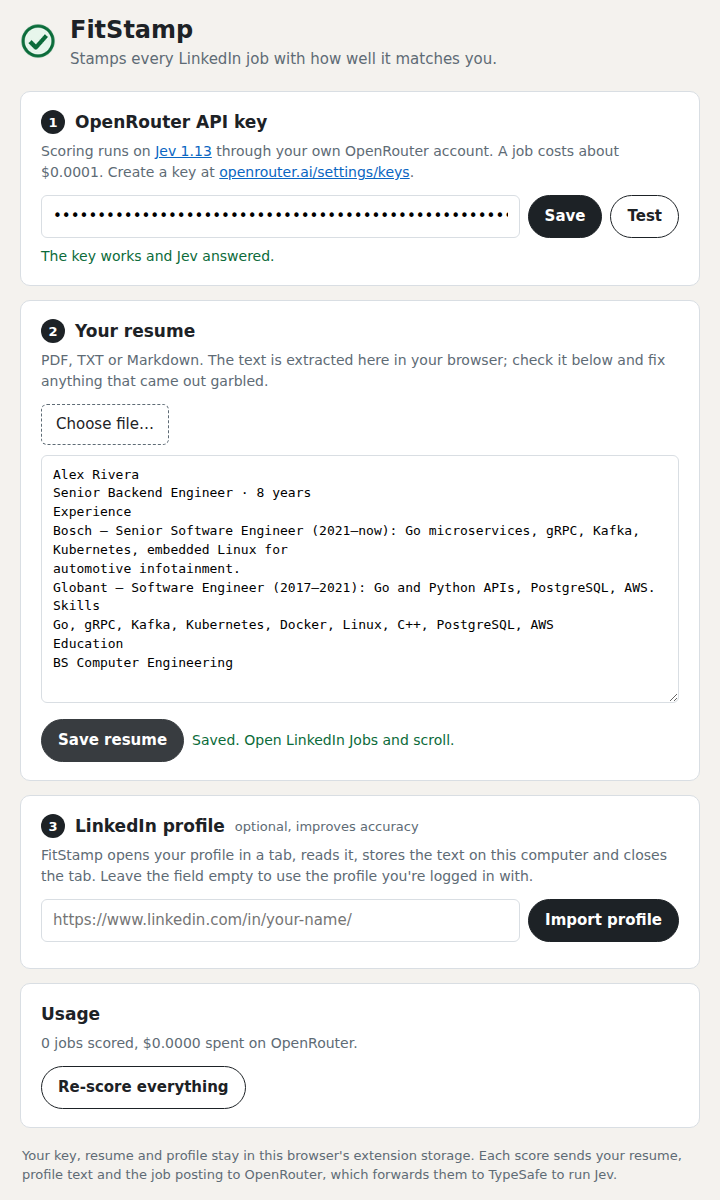
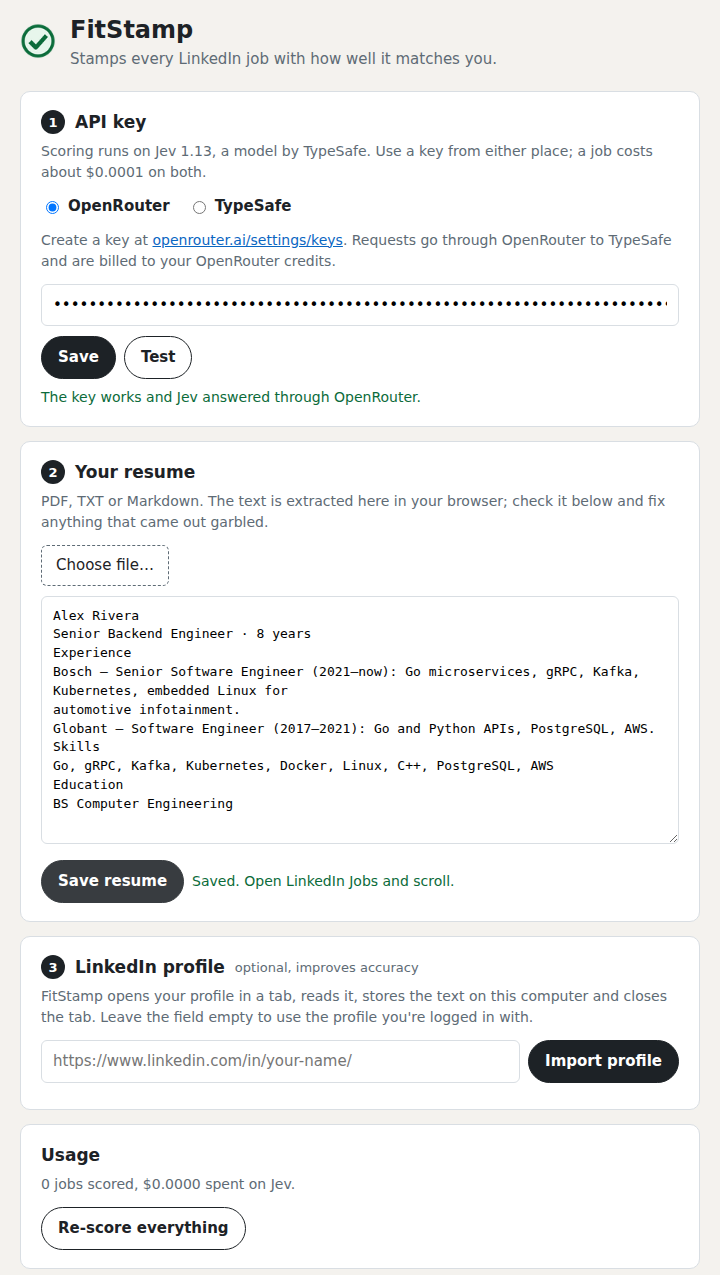
Let the user score with a TypeSafe API key as well as an OpenRouter one
Settings get a provider choice with one key per provider. TypeSafe requests go
straight to api.typesafe.ai/v1/systemone with model jev-1.13.0; its errors come
as { detail } and it reports no cost, so cost is computed from input tokens.
Both providers retry 429/529 with backoff.

diff --git a/src/lib/jev.js b/src/lib/jev.js
@@ -1,9 +1,26 @@
 // Jev is a decision model: it never writes text, it answers typed questions
 // (score / noul / choice) about a `state` with calibrated probabilities.
 // Docs: https://docs.typesafe.ai/api and https://openrouter.ai/docs/guides/community/typesafe-sdk
+//
+// Both providers take the same request and return the same answers; only the
+// URL, the model name and the error body differ.
+export const PROVIDERS = {
+  openrouter: {
+    label: "OpenRouter",
+    endpoint: "https://openrouter.ai/api/v1/systemone",
+    model: "jev-1.13",
+    headers: { "HTTP-Referer": "https://github.com/edumntg/fitstamp", "X-Title": "FitStamp" },
+  },
+  typesafe: {
+    label: "TypeSafe",
+    endpoint: "https://api.typesafe.ai/v1/systemone",
+    model: "jev-1.13.0",
+    headers: {},
+  },
+};
 
-export const ENDPOINT = "https://openrouter.ai/api/v1/systemone";
-export const MODEL = "jev-1.13";
+// TypeSafe doesn't report cost; Jev 1.13 bills $0.042 per million input tokens.
+const USD_PER_INPUT_TOKEN = 0.042 / 1e6;
 
 // Jev's context is 32k tokens. These caps keep resume + profile + job well under it.
 const MAX_RESUME = 14000;
@@ -46,26 +63,35 @@ export function buildState(candidate, job) {
   return { candidate: c, job: j };
 }
 
-async function call(apiKey, state, questions) {
-  const res = await fetch(ENDPOINT, {
+const sleep = (ms) => new Promise((r) => setTimeout(r, ms));
+
+// `auth` is { provider: "openrouter" | "typesafe", apiKey }.
+async function call(auth, state, questions, attempt = 0) {
+  const p = PROVIDERS[auth.provider] || PROVIDERS.openrouter;
+  const res = await fetch(p.endpoint, {
     method: "POST",
-    headers: {
-      Authorization: `Bearer ${apiKey}`,
-      "Content-Type": "application/json",
-      "HTTP-Referer": "https://github.com/edumntg/fitstamp",
-      "X-Title": "FitStamp",
-    },
-    body: JSON.stringify({ model: MODEL, state, questions }),
+    headers: { Authorization: `Bearer ${auth.apiKey}`, "Content-Type": "application/json", ...p.headers },
+    body: JSON.stringify({ model: p.model, state, questions }),
   });
+  // 429 = rate limited, 529 = TypeSafe overloaded: both ask for a retry with backoff.
+  if ((res.status === 429 || res.status === 529) && attempt < 3) {
+    const retryAfter = Number(res.headers.get("retry-after")) * 1000;
+    await sleep(retryAfter || 1000 * 2 ** attempt);
+    return call(auth, state, questions, attempt + 1);
+  }
   const body = await res.json().catch(() => ({}));
   if (!res.ok) {
-    const msg = body?.error?.message || `HTTP ${res.status}`;
+    // OpenRouter: { error: { message } }. TypeSafe: { detail: { message } } or { detail: "..." }.
+    const detail = body?.detail;
+    const msg = body?.error?.message || detail?.message || (typeof detail === "string" ? detail : "") || `HTTP ${res.status}`;
     const err = new Error(msg);
     err.status = res.status;
     throw err;
   }
   return body;
 }
+
+const costOf = (usage) => usage?.cost ?? (usage?.input_tokens != null ? usage.input_tokens * USD_PER_INPUT_TOKEN : null);
 
 // Weights live in code on purpose (the "composite scoring" pattern): the model
 // answers narrow questions, we decide how much each one matters.
@@ -86,14 +112,14 @@ export function combine(answers) {
   };
 }
 
-export async function scoreJob(apiKey, candidate, job) {
-  const body = await call(apiKey, buildState(candidate, job), QUESTIONS);
-  return { ...combine(body.answers), cost: body.usage?.cost ?? null };
+export async function scoreJob(auth, candidate, job) {
+  const body = await call(auth, buildState(candidate, job), QUESTIONS);
+  return { ...combine(body.answers), cost: costOf(body.usage) };
 }
 
-export async function testKey(apiKey) {
-  const body = await call(apiKey, "Hello", {
+export async function testKey(auth) {
+  const body = await call(auth, "Hello", {
     ok: { type: "noul", instructions: "Is this a greeting?" },
   });
-  return body.usage?.cost ?? 0;
+  return costOf(body.usage) ?? 0;
 }

diff --git a/src/options/options.js b/src/options/options.js
@@ -1,5 +1,5 @@
 import * as pdfjs from "../../vendor/pdfjs/pdf.min.mjs";
-import { testKey } from "../lib/jev.js";
+import { testKey, PROVIDERS } from "../lib/jev.js";
 
 pdfjs.GlobalWorkerOptions.workerSrc = chrome.runtime.getURL("vendor/pdfjs/pdf.worker.min.mjs");
 
@@ -15,22 +15,40 @@ const fmtDate = (t) => new Date(t).toLocaleString();
 
 // ---------- API key ----------
 
+// The OpenRouter key is stored as `apiKey` (its name predates TypeSafe support).
+const KEY_FIELD = { openrouter: { input: "openrouterKey", store: "apiKey" }, typesafe: { input: "typesafeKey", store: "typesafeKey" } };
+
+const selectedProvider = () => document.querySelector('input[name="provider"]:checked').value;
+
+function showProvider(provider) {
+  document.querySelectorAll("[data-provider]").forEach((el) => (el.hidden = el.dataset.provider !== provider));
+}
+
+document.querySelectorAll('input[name="provider"]').forEach((r) => {
+  r.onchange = () => {
+    showProvider(r.value);
+    status($("keyStatus"), "");
+  };
+});
+
 $("saveKey").onclick = async () => {
-  const apiKey = $("apiKey").value.trim();
-  if (!apiKey) return status($("keyStatus"), "Paste a key first.", "error");
-  await store.set({ apiKey });
-  status($("keyStatus"), "Saved.", "ok");
+  const provider = selectedProvider();
+  const key = $(KEY_FIELD[provider].input).value.trim();
+  if (!key) return status($("keyStatus"), "Paste a key first.", "error");
+  await store.set({ provider, [KEY_FIELD[provider].store]: key });
+  status($("keyStatus"), `Saved. Jobs are now scored through ${PROVIDERS[provider].label}.`, "ok");
 };
 
 $("testKey").onclick = async () => {
-  const apiKey = $("apiKey").value.trim();
+  const provider = selectedProvider();
+  const apiKey = $(KEY_FIELD[provider].input).value.trim();
   if (!apiKey) return status($("keyStatus"), "Paste a key first.", "error");
   status($("keyStatus"), "Testing…");
   try {
-    await testKey(apiKey);
-    status($("keyStatus"), "The key works and Jev answered.", "ok");
+    await testKey({ provider, apiKey });
+    status($("keyStatus"), `The key works and Jev answered through ${PROVIDERS[provider].label}.`, "ok");
   } catch (e) {
-    status($("keyStatus"), `Jev call failed: ${e.message}`, "error");
+    status($("keyStatus"), `Jev call through ${PROVIDERS[provider].label} failed: ${e.message}`, "error");
   }
 };
 
@@ -112,9 +130,18 @@ $("clearCache").onclick = async () => {
 
 // ---------- load + live refresh ----------
 
+let refreshed = false;
+
 async function refresh() {
-  const s = await store.get(["apiKey", "resume", "profile", "profileUrl", "stats"]);
-  if (s.apiKey && !$("apiKey").value) $("apiKey").value = s.apiKey;
+  const s = await store.get(["provider", "apiKey", "typesafeKey", "resume", "profile", "profileUrl", "stats"]);
+  if (!refreshed) {
+    const provider = s.provider === "typesafe" ? "typesafe" : "openrouter";
+    document.querySelector(`input[name="provider"][value="${provider}"]`).checked = true;
+    showProvider(provider);
+    refreshed = true;
+  }
+  if (s.apiKey && !$("openrouterKey").value) $("openrouterKey").value = s.apiKey;
+  if (s.typesafeKey && !$("typesafeKey").value) $("typesafeKey").value = s.typesafeKey;
   if (s.resume && !$("resumeText").value) {
     $("resumeText").value = s.resume.text;
     resumeName = s.resume.name;
@@ -130,7 +157,7 @@ async function refresh() {
     $("profileDetails").hidden = true;
   }
   const st = s.stats || { scored: 0, cost: 0 };
-  $("stats").textContent = `${st.scored.toLocaleString()} jobs scored, $${st.cost.toFixed(4)} spent on OpenRouter.`;
+  $("stats").textContent = `${st.scored.toLocaleString()} jobs scored, $${st.cost.toFixed(4)} spent on Jev.`;
 }
 
 chrome.storage.onChanged.addListener((_, area) => area === "local" && refresh());

diff --git a/src/options/options.html b/src/options/options.html
@@ -16,10 +16,22 @@
     </header>
 
     <section>
-      <h2><span class="step">1</span> OpenRouter API key</h2>
-      <p class="hint">Scoring runs on <a href="https://openrouter.ai/typesafe/jev-1.13" target="_blank" rel="noopener">Jev 1.13</a> through your own OpenRouter account. A job costs about $0.0001. Create a key at <a href="https://openrouter.ai/settings/keys" target="_blank" rel="noopener">openrouter.ai/settings/keys</a>.</p>
-      <div class="row">
-        <input id="apiKey" type="password" placeholder="sk-or-v1-…" autocomplete="off" spellcheck="false">
+      <h2><span class="step">1</span> API key</h2>
+      <p class="hint">Scoring runs on Jev 1.13, a model by TypeSafe. Use a key from either place; a job costs about $0.0001 on both.</p>
+      <fieldset class="providers">
+        <legend class="sr-only">Where your key is from</legend>
+        <label><input type="radio" name="provider" value="openrouter" checked> OpenRouter</label>
+        <label><input type="radio" name="provider" value="typesafe"> TypeSafe</label>
+      </fieldset>
+      <div data-provider="openrouter">
+        <p class="hint">Create a key at <a href="https://openrouter.ai/settings/keys" target="_blank" rel="noopener">openrouter.ai/settings/keys</a>. Requests go through OpenRouter to TypeSafe and are billed to your OpenRouter credits.</p>
+        <input id="openrouterKey" type="password" placeholder="sk-or-v1-…" autocomplete="off" spellcheck="false" aria-label="OpenRouter API key">
+      </div>
+      <div data-provider="typesafe" hidden>
+        <p class="hint">Create a key at <a href="https://console.typesafe.ai/keys" target="_blank" rel="noopener">console.typesafe.ai/keys</a>. Requests go straight to TypeSafe's API and are billed to your TypeSafe account.</p>
+        <input id="typesafeKey" type="password" placeholder="Your TypeSafe API key" autocomplete="off" spellcheck="false" aria-label="TypeSafe API key">
+      </div>
+      <div class="row key-actions">
         <button id="saveKey">Save</button>
         <button id="testKey" class="ghost">Test</button>
       </div>
@@ -62,7 +74,7 @@
     </section>
 
     <footer>
-      Your key, resume and profile stay in this browser's extension storage. Each score sends your resume, profile text and the job posting to OpenRouter, which forwards them to TypeSafe to run Jev.
+      Your key, resume and profile stay in this browser's extension storage. Each score sends your resume, profile text and the job posting to the provider you chose: OpenRouter, which forwards them to TypeSafe, or TypeSafe directly.
     </footer>
   </main>
   <script type="module" src="options.js"></script>

diff --git a/src/background.js b/src/background.js
@@ -13,14 +13,17 @@ function fnv1a(str) {
   return (h >>> 0).toString(36);
 }
 
+// `apiKey` is the OpenRouter key (its name predates TypeSafe support).
 async function settings() {
-  return chrome.storage.local.get(["apiKey", "resume", "profile", "enabled"]);
+  const s = await chrome.storage.local.get(["provider", "apiKey", "typesafeKey", "resume", "profile", "enabled"]);
+  const provider = s.provider === "typesafe" ? "typesafe" : "openrouter";
+  return { ...s, auth: { provider, apiKey: provider === "typesafe" ? s.typesafeKey : s.apiKey } };
 }
 
 async function handleScore(job) {
   const s = await settings();
   if (s.enabled === false) return { ok: false, reason: "disabled" };
-  if (!s.apiKey) return { ok: false, reason: "no-key" };
+  if (!s.auth.apiKey) return { ok: false, reason: "no-key" };
   if (!s.resume?.text) return { ok: false, reason: "no-resume" };
 
   const candidate = { resume: s.resume.text, profile: s.profile?.text || "" };
@@ -36,7 +39,7 @@ async function handleScore(job) {
   if (!inflight.has(flightKey)) {
     inflight.set(
       flightKey,
-      scoreJob(s.apiKey, candidate, job).finally(() => inflight.delete(flightKey))
+      scoreJob(s.auth, candidate, job).finally(() => inflight.delete(flightKey))
     );
   }
   try {

diff --git a/src/content/jobs.js b/src/content/jobs.js
@@ -257,10 +257,10 @@
   let bannerEl = null;
   function showBanner(reason) {
     const msg = {
-      "no-key": "add your OpenRouter API key",
+      "no-key": "add your OpenRouter or TypeSafe API key",
       "no-resume": "upload your resume",
-      "bad-key": "your OpenRouter API key was rejected, check it",
-      "no-credits": "your OpenRouter account is out of credits",
+      "bad-key": "your API key was rejected, check it",
+      "no-credits": "your account is out of credits",
       disabled: null,
     }[reason];
     bannerEl?.remove();
@@ -308,7 +308,7 @@
   // New resume / profile / key / toggle / cleared cache: drop every stamp and start over.
   chrome.storage.onChanged.addListener((changes, area) => {
     if (area !== "local") return;
-    if (!["apiKey", "resume", "profile", "enabled", "cacheEpoch"].some((k) => k in changes)) return;
+    if (!["provider", "apiKey", "typesafeKey", "resume", "profile", "enabled", "cacheEpoch"].some((k) => k in changes)) return;
     blocked = null;
     bannerEl?.remove();
     queue.length = 0;

diff --git a/src/popup/popup.js b/src/popup/popup.js
@@ -1,7 +1,9 @@
 const $ = (id) => document.getElementById(id);
 
-chrome.storage.local.get(["apiKey", "resume", "profile", "enabled", "stats"]).then((s) => {
-  $("hasKey").classList.toggle("done", !!s.apiKey);
+chrome.storage.local.get(["provider", "apiKey", "typesafeKey", "resume", "profile", "enabled", "stats"]).then((s) => {
+  const typesafe = s.provider === "typesafe";
+  $("hasKey").textContent = `${typesafe ? "TypeSafe" : "OpenRouter"} API key`;
+  $("hasKey").classList.toggle("done", !!(typesafe ? s.typesafeKey : s.apiKey));
   $("hasResume").classList.toggle("done", !!s.resume?.text);
   $("hasProfile").classList.toggle("done", !!s.profile?.text);
   $("enabled").checked = s.enabled !== false;

diff --git a/src/options/options.css b/src/options/options.css
@@ -71,6 +71,27 @@ a { color: var(--accent); }
   flex-wrap: wrap;
 }
 
+.providers {
+  display: flex;
+  gap: 18px;
+  margin: 0 0 12px;
+  padding: 0;
+  border: 0;
+}
+
+.providers label { display: flex; align-items: center; gap: 6px; font-weight: 600; cursor: pointer; }
+
+.sr-only {
+  position: absolute;
+  width: 1px;
+  height: 1px;
+  overflow: hidden;
+  clip: rect(0 0 0 0);
+}
+
+[data-provider] input { width: 100%; }
+.key-actions { margin-top: 10px; }
+
 input[type="password"], input[type="url"] {
   flex: 1 1 260px;
   min-width: 0;

diff --git a/src/popup/popup.html b/src/popup/popup.html
@@ -20,7 +20,7 @@
 <body>
   <h1>FitStamp <label><input id="enabled" type="checkbox"> On</label></h1>
   <ul>
-    <li id="hasKey">OpenRouter API key</li>
+    <li id="hasKey">API key</li>
     <li id="hasResume">Resume</li>
     <li id="hasProfile" class="optional">LinkedIn profile (optional)</li>
   </ul>

diff --git a/README.md b/README.md
@@ -4,11 +4,11 @@ A Chrome extension that stamps every job on LinkedIn with how well it matches yo
 
 ![Job cards stamped with match scores](docs/stamps.png)
 
-Scoring runs on [Jev 1.13](https://openrouter.ai/typesafe/jev-1.13) through your own OpenRouter API key. Jev is a decision model: it doesn't write text, it answers typed questions with calibrated probabilities, so a score comes back in under a second and costs about **$0.0001 per job** (roughly 10,000 jobs per dollar).
+Scoring runs on [Jev 1.13](https://docs.typesafe.ai/concepts/system-one) by TypeSafe, with your own API key from either [OpenRouter](https://openrouter.ai/typesafe/jev-1.13) or [TypeSafe](https://console.typesafe.ai) directly. Jev is a decision model: it doesn't write text, it answers typed questions with calibrated probabilities, so a score comes back in under a second and costs about **$0.0001 per job** (roughly 10,000 jobs per dollar).
 
 ## How it works
 
-1. You give the extension your resume (PDF, TXT or Markdown) and your OpenRouter key. Importing your LinkedIn profile is optional and adds whatever the resume leaves out.
+1. You give the extension your resume (PDF, TXT or Markdown) and an OpenRouter or TypeSafe API key. Importing your LinkedIn profile is optional and adds whatever the resume leaves out.
 2. On `linkedin.com/jobs/*`, each job card that scrolls into view is picked up, and so is the job you have open in the right-hand pane (its stamp sits under the title). The extension downloads the full posting from LinkedIn's public job page (the same one a logged-out visitor sees), so it scores the whole description and not just the title.
 3. Your resume, profile and the posting go to Jev in one request with three questions:
    - **fit**: a 0–3 score, from "no meaningful overlap" to "meets nearly all requirements and the seniority fits"
@@ -30,11 +30,19 @@ Scores are cached for 7 days per job. Changing your resume or profile re-scores 
 
 The extension isn't on the Chrome Web Store, so you load it from this folder. It takes about two minutes.
 
-### 1. Get an OpenRouter API key
+### 1. Get an API key (OpenRouter or TypeSafe)
 
-1. Sign in at [openrouter.ai](https://openrouter.ai).
-2. Add a few dollars of credit at [openrouter.ai/settings/credits](https://openrouter.ai/settings/credits). $1 covers thousands of jobs.
-3. Go to [openrouter.ai/settings/keys](https://openrouter.ai/settings/keys), click **Create key** and copy it (it starts with `sk-or-v1-`). You can set a credit limit on the key if you want a hard cap.
+You need one key, from either of these. Both run the same model at the same price; pick whichever account you already have.
+
+| | OpenRouter | TypeSafe |
+| --- | --- | --- |
+| Where requests go | OpenRouter, which forwards them to TypeSafe | Straight to TypeSafe's API |
+| Billing | Your OpenRouter credits | Your TypeSafe account |
+| Get a key | [openrouter.ai/settings/keys](https://openrouter.ai/settings/keys) | [console.typesafe.ai/keys](https://console.typesafe.ai/keys) |
+
+**OpenRouter:** sign in at [openrouter.ai](https://openrouter.ai), add a few dollars at [openrouter.ai/settings/credits](https://openrouter.ai/settings/credits) ($1 covers thousands of jobs), then click **Create key** at [openrouter.ai/settings/keys](https://openrouter.ai/settings/keys) and copy it (it starts with `sk-or-v1-`). You can set a credit limit on the key if you want a hard cap.
+
+**TypeSafe:** sign in at [console.typesafe.ai](https://console.typesafe.ai) and create a key at [console.typesafe.ai/keys](https://console.typesafe.ai/keys).
 
 ### 2. Download the extension
 
@@ -60,7 +68,7 @@ It works the same in Edge, Brave and other Chromium browsers (`edge://extensions
 
 ![Settings page](docs/settings.png)
 
-1. **OpenRouter API key**: paste it, click **Save**, then **Test**. You should see "The key works and Jev answered."
+1. **API key**: choose **OpenRouter** or **TypeSafe**, paste the key, click **Save**, then **Test**. You should see "The key works and Jev answered through …". The extension uses whichever provider is selected when you save; each provider's key is kept, so you can switch back and forth.
 2. **Your resume**: click **Choose file…** and pick your resume. The extracted text appears in the box; read it over, fix anything garbled and click **Save resume**. If your PDF is a scanned image no text will come out; paste the text into the box instead.
 3. **LinkedIn profile** (optional, improves accuracy): paste your profile link (`https://www.linkedin.com/in/your-name/`) or leave it empty to use the account you're logged into, then click **Import profile**. A tab opens on your profile, scrolls through it, saves the text and closes. Click **See what was captured** to check it.
 
@@ -87,8 +95,8 @@ Pull the latest code (`git pull`, or download the ZIP again), then open `chrome:
 
 ## Privacy
 
-- Your API key, resume text, profile text and the score cache are kept in the extension's local storage in your browser. Nothing is synced or sent to any server of ours; there isn't one.
-- Each score sends your resume, your profile text (if imported) and the job posting to OpenRouter, which forwards them to TypeSafe to run Jev. See [OpenRouter's privacy policy](https://openrouter.ai/privacy). If you'd rather not send a detail (phone number, home address), delete it from the resume text in settings before saving; it doesn't help the match anyway.
+- Your API key(s), resume text, profile text and the score cache are kept in the extension's local storage in your browser. Nothing is synced or sent to any server of ours; there isn't one.
+- Each score sends your resume, your profile text (if imported) and the job posting to the provider you picked: OpenRouter (which forwards them to TypeSafe) or TypeSafe directly. See [OpenRouter's privacy policy](https://openrouter.ai/privacy) and [TypeSafe's legal page](https://docs.typesafe.ai/legal). If you'd rather not send a detail (phone number, home address), delete it from the resume text in settings before saving; it doesn't help the match anyway.
 - Job postings are downloaded from LinkedIn's public job pages without your session cookie, so the extension doesn't act on your account. Reading LinkedIn pages with an extension is still something LinkedIn's terms discourage; use it at your own discretion.
 
 ## Project layout
@@ -96,7 +104,7 @@ Pull the latest code (`git pull`, or download the ZIP again), then open `chrome:
 ```
 manifest.json            Chrome MV3 manifest
 src/background.js        Service worker: score cache, Jev calls, profile import
-src/lib/jev.js           The Jev request (state + questions) and how answers become a match %
+src/lib/jev.js           The Jev request (state + questions), both providers, and how answers become a match %
 src/content/jobs.js      Finds job cards, fetches postings, draws the stamps
 src/content/jobs.css     Stamp styles
 src/content/profile.js   Reads your profile page during an import
